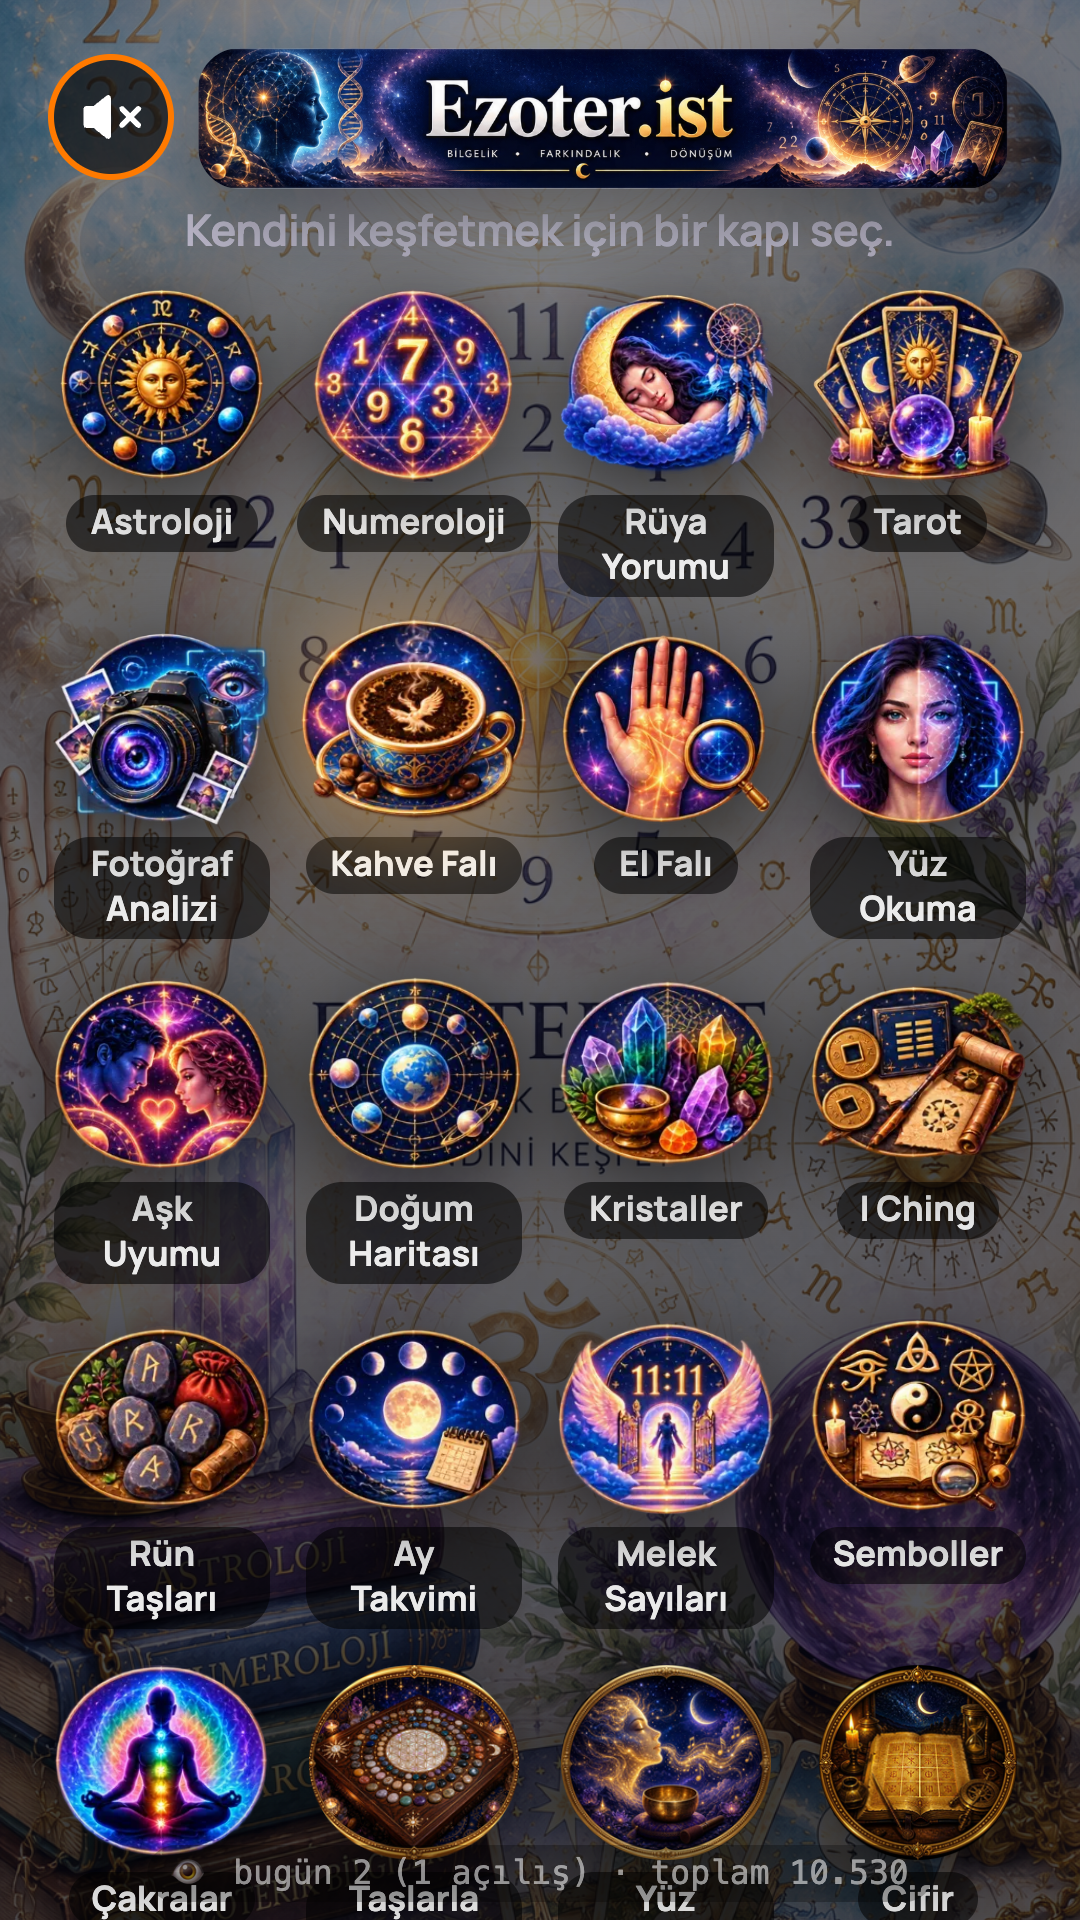
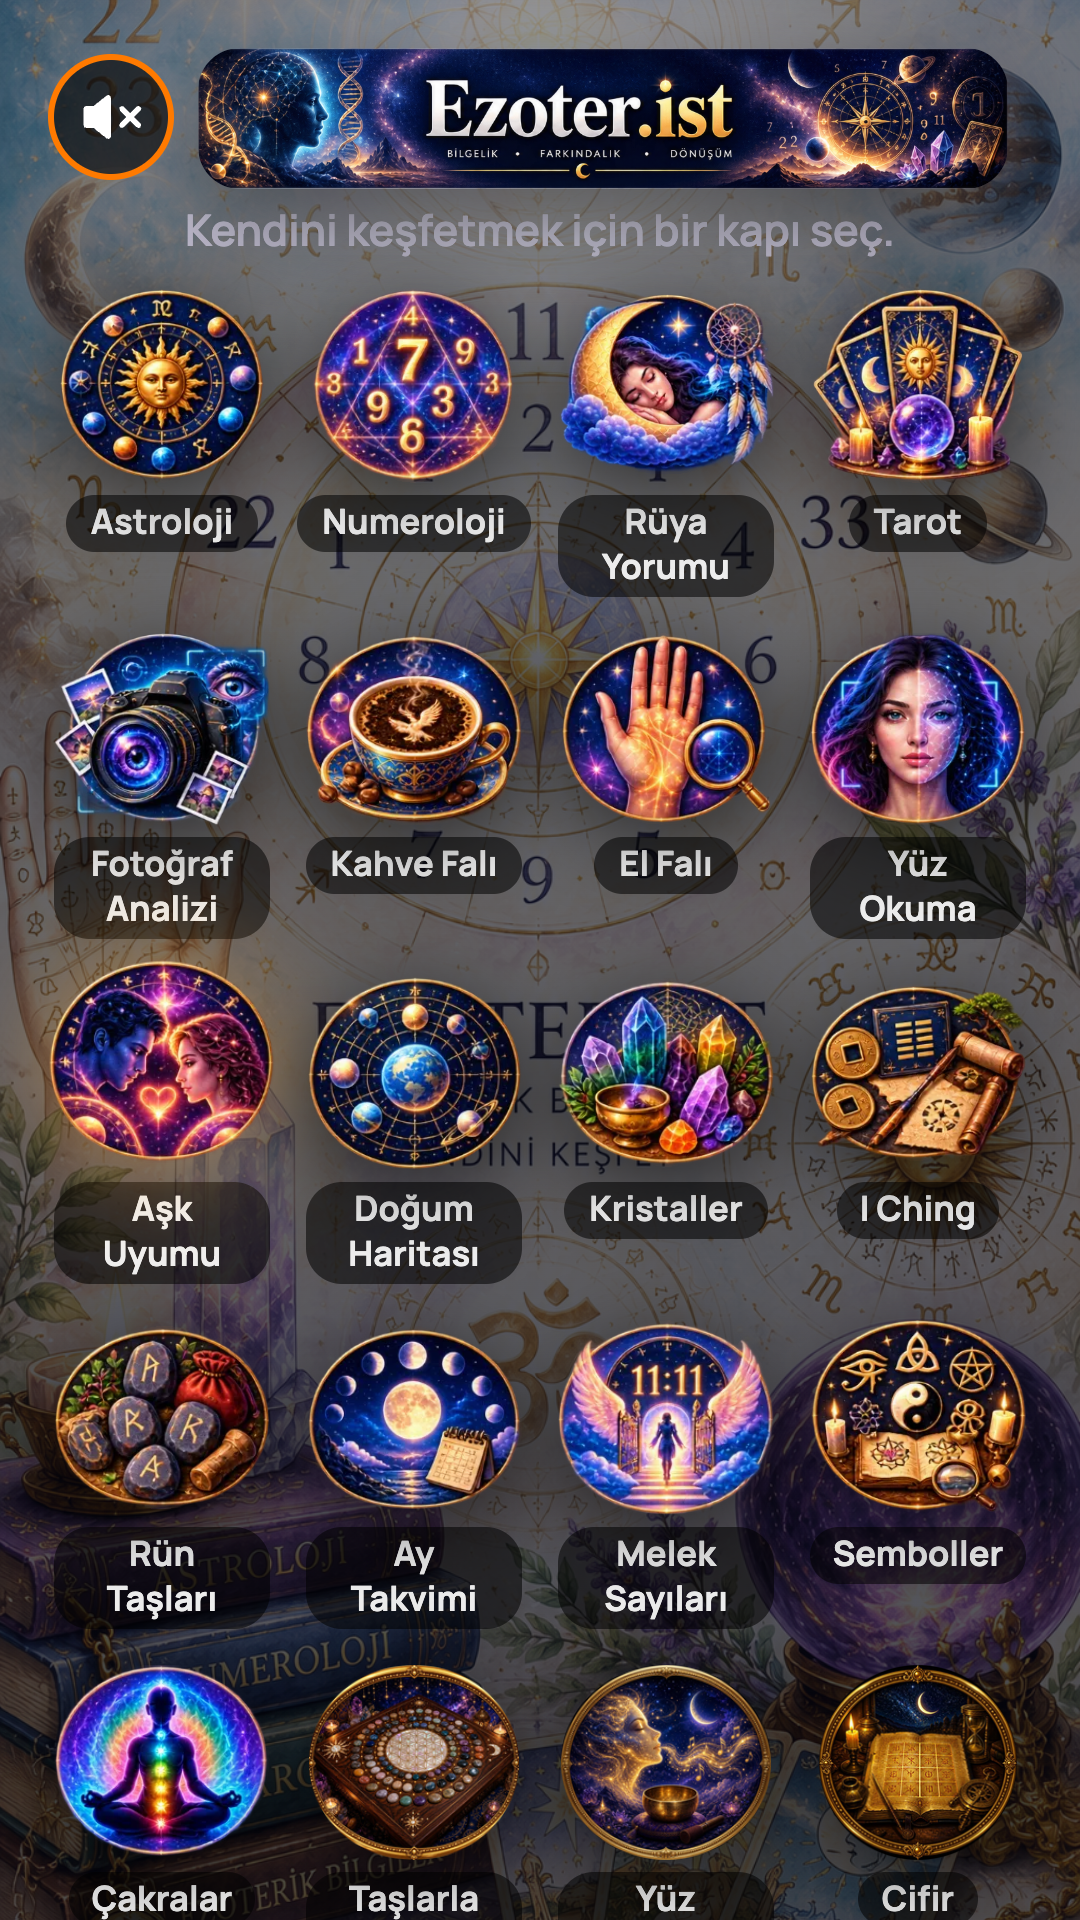
Android imzalama betiği, Play Console rehberi ve mağaza metinleri; ekran görüntüleri sayaçsız

diff --git a/android/arac/ekran-cek.js b/android/arac/ekran-cek.js
@@ -12,6 +12,9 @@ const SAYFALAR = [["1-ana-menu", "/"], ["2-tarot", "/tarot"], ["3-kahve-fali", "
     const s = await bag.newPage();
     await s.goto(`https://ezoter.ist${yol}`, { waitUntil: "networkidle" });
     await s.waitForTimeout(1500);
+    // Alttaki ziyaret sayacı mağaza görselinde görünmesin.
+    await s.addStyleTag({ content: ".ezo-sayac { display: none !important; }" });
+    await s.waitForTimeout(200);
     await s.screenshot({ path: path.join(__dirname, "../magaza/ekranlar", `${ad}.png`) });
     console.log(ad);
     await s.close();

diff --git a/android/magaza/PLAY-CONSOLE-REHBERI.md b/android/magaza/PLAY-CONSOLE-REHBERI.md
@@ -1,0 +1,102 @@
+# Ezoter.ist — Google Play'e yükleme rehberi
+
+Uygulama: **Ezoter.ist** · paket adı **`ist.ezoter.app`** (Play'e yüklendikten sonra değişmez)
+Tür: siteyi adres çubuğu olmadan açan Android uygulaması (Trusted Web Activity). Sitedeki her
+değişiklik uygulamada anında görünür; yalnız simge, ad gibi şeyler değişince yeni sürüm yüklenir.
+
+## 1. Geliştirici hesabı (Murat)
+
+1. https://play.google.com/console → **Kuruluş** (organization) hesabı.
+2. D-U-N-S numarası: Play Console başvuru sırasında yönlendirir (ücretsiz, birkaç gün).
+3. Bir kerelik 25 $ kayıt ücreti, kimlik ve kuruluş doğrulaması.
+
+## 2. Paketi imzala (Murat, bu Mac'te, Terminal)
+
+```
+~/Documents/ezoterist/android/imzala.sh
+```
+
+- İlk seferde **yükleme anahtarı** oluşturur ve şifre sorar. Şifreyi not et.
+- `android/ezoterist-yukleme.keystore` dosyasının bir yedeğini güvenli bir yere al.
+- Sonuç: `android/ezoterist-imzali.aab` + yükleme anahtarının SHA-256 parmak izi.
+
+Play App Signing açık olacağı için uygulamayı asıl imzalayan anahtarı Google saklar. Yükleme
+anahtarı kaybolursa Play Console'dan sıfırlama istenebilir.
+
+## 3. Uygulamayı oluştur (Play Console)
+
+- **Uygulama oluştur:** Ad "Ezoter.ist", varsayılan dil Türkçe, Uygulama, Ücretsiz.
+- **Test ve yayın → Üretim → Yeni sürüm:** `ezoterist-imzali.aab` yükle.
+  Play App Signing'i kabul et. Sürüm notu: "İlk sürüm".
+- **Uygulama bütünlüğü → Uygulama imzalama:** "Uygulama imzalama anahtarı sertifikası"ndaki
+  **SHA-256** değerini kopyala → ezoter.ist/yonetim → Ayarlar → **Android uygulaması → İmza parmak izi (Play uygulama imzalama)**.
+  Bu yapılmazsa uygulamada üstte adres çubuğu görünür.
+
+## 4. Mağaza girişi (Ana mağaza girişi)
+
+**Uygulama adı (30):** Ezoter.ist: Tarot, Astroloji
+
+**Kısa açıklama (80):**
+Tarot, kahve falı, astroloji ve numeroloji: yapay zekâ ile ücretsiz yorumlar
+
+**Tam açıklama (4000):**
+
+Ezoter.ist; astroloji, tarot, numeroloji, rüya yorumu, kahve falı, el falı ve daha pek çok ezoterik konuda yapay zekâ ile kişisel yorumlar sunan ücretsiz bir eğlence ve kendini keşfetme uygulamasıdır. Üyelik gerekmez, hiçbir yorum için ücret alınmaz.
+
+✨ NELER VAR
+• Astroloji: bugünün gökyüzü, 12 burç ve günlük burç yorumları
+• Doğum haritası: gerçek gök hesabıyla Güneş, Ay ve yükselen burcun
+• Tarot: 78 kartlık özel destemizle günün kartı, aşk açılımı ve Kelt Haçı
+• Kahve falı: fincanının fotoğrafını çek, telvedeki şekiller yorumlansın
+• El falı ve yüz okuma: avucunun ya da yüzünün fotoğrafından sembolik yorum
+• Rüya yorumu: geleneksel ve psikolojik yorum, rüyanın resmi
+• Numeroloji: yaşam yolu, kader ve ruh güdüsü sayıların
+• Melek sayıları: 111, 222, 1111 gibi tekrar eden sayıların anlamı
+• Aşk uyumu, I Ching, rün taşları, ay takvimi, çakralar ve rehberli çakra meditasyonu
+• Kristaller, semboller, ebced ve cifir hesabı, taşlarla dizim, yüz müziği
+• Ezoterik Rehber: burçlar, tarot kartları, rünler, kristaller ve sembollerin anlamları
+
+🔒 GİZLİLİK
+Hesap açman gerekmez. Girdiğin bilgiler, yüklediğin fotoğraflar ve yorumların kaydedilmez; yorum yalnızca uygulamayı kullandığın sürece görüntülenir.
+
+🎁 ÜCRETSİZ
+Bütün yorumlar ücretsizdir. Herkesin yararlanabilmesi için günlük kullanım sınırı vardır.
+
+ℹ ÖNEMLİ
+İçerikler eğlence, ilham ve kişisel farkındalık amaçlıdır; bilimsel bir dayanağı yoktur ve tıbbi, psikolojik, hukuki ya da mali tavsiye yerine geçmez. Yorumları bir falcı ya da danışman değil, yapay zekâ hazırlar.
+
+**Görseller** (bu klasörde):
+- Uygulama simgesi 512×512: `play-simge-512.png`
+- Öne çıkan görsel 1024×500: `play-tanitim-1024x500.png`
+- Telefon ekran görüntüleri (1080×1920): `ekranlar/1-ana-menu.png` … `6-akrep-burcu.png`
+
+**Kategori:** Yaşam tarzı (Lifestyle) · **Etiketler:** Astroloji, Eğlence
+**İletişim:** bilgi@ezoter.ist · web sitesi https://ezoter.ist
+**Gizlilik politikası:** https://ezoter.ist/gizlilik
+
+## 5. Uygulama içeriği formları — hazır cevaplar
+
+**Uygulama erişimi:** Tüm işlevler özel erişim gerektirmez (giriş yok).
+
+**Reklamlar:** Evet, uygulama reklam içeriyor (Google AdSense, onaylanınca).
+
+**İçerik derecelendirmesi (IARC anketi):** Kategori "Eğlence" ya da "Referans/Eğitim dışı diğer".
+Şiddet, cinsellik, küfür, uyuşturucu, kumar: **Hayır**. Kullanıcılar arası iletişim: **Hayır**.
+Kullanıcı konumu paylaşımı: **Hayır**. Dijital ürün satışı: **Hayır**.
+
+**Hedef kitle:** 18 yaş ve üzeri (yalnız 18+ seç). Çocuklara yönelik değil.
+
+**Haber uygulaması:** Hayır. **Sağlık uygulaması:** Hayır. **Finans:** Hayır. **Devlet:** Hayır.
+
+**Veri güvenliği (Data safety):**
+- Veri topluyor ya da paylaşıyor mu: **Evet**. Aktarımda şifreli: **Evet** (HTTPS).
+- Kullanıcı verilerin silinmesini isteyebilir mi: veriler saklanmadığı için "otomatik silinir" açıklaması.
+- **Fotoğraflar** (kahve falı, el falı, yüz okuma, fotoğraf analizi): Toplanıyor · paylaşılmıyor ·
+  **geçici olarak işleniyor** (ephemeral) · isteğe bağlı · amaç: Uygulama işlevselliği.
+- **Kişisel bilgiler → Ad** (numeroloji, ebced için yazılan isim) ve **Diğer bilgiler** (doğum tarihi/saati/yeri):
+  Toplanıyor · paylaşılmıyor · geçici işleniyor · isteğe bağlı · Uygulama işlevselliği.
+- **Uygulama etkinliği → Diğer kullanıcı içeriği** (rüya metni, sorular): Toplanıyor · paylaşılmıyor ·
+  geçici işleniyor · isteğe bağlı · Uygulama işlevselliği.
+- **Cihaz veya diğer kimlikler** (rastgele ziyaretçi çerezi; reklam kimliği): Toplanıyor · reklam için
+  Google ile **paylaşılıyor** · zorunlu · amaç: Uygulama işlevselliği (günlük sınır), Reklam.
+- Konum, kişiler, finans, sağlık, mesajlar, ses, dosyalar, takvim: **Toplanmıyor**.
